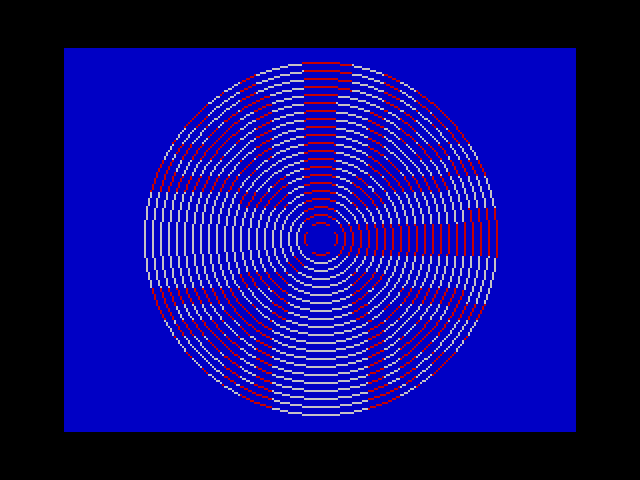
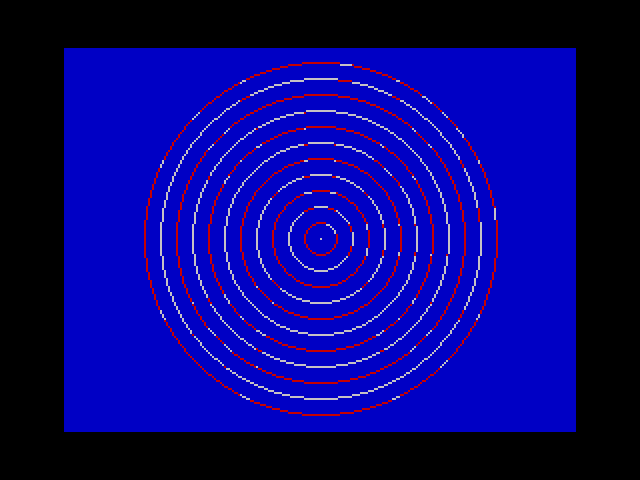
OpticOS 128: 32-column editor in SCREEN 1, and demo updates
The editor, cursor and INPUT now use 32 columns in mode 1 via a
main-ROM w_chk hook (OMODE=32 jumps to x_ed; 64-col and 48K keep
the local path). Locked addresses are unchanged. Net 4 bytes used
from the 95 free after the Stage 1 commit, 91 left; the hook was
paid for by squeezes, plus 1 byte to fix cursor erase (xor a was
clearing the flags from or a, so 8x8 cursors were left behind).

Hi-res circle rings are 8 px apart. The flags demo shows modes
0, 2 and 3 only (mode 1 is the same bitmap as 0). DRAW/BOX at
OMODE 32 matches OMODE 64. Local commit only; do not push.

Changed region(s): [[0.2188, 0.125, 0.7812, 0.875], [0.6875, 0.7188, 0.7188, 0.75], [0.3125, 0.2188, 0.3438, 0.25]]

diff --git a/tools/rig/test_screen_gfx.py b/tools/rig/test_screen_gfx.py
@@ -856,6 +856,46 @@ def t_circle_hires():
     check('CIRCLE hi INVERSE clears the centre pixel',
           not pix_hi(s, 128, ytotop(0, 96)), 'pixel still set')
 
+def t_mode1_draw_box_matches_mode0():
+    """SCREEN 1 uses the same 256x192 path as SCREEN 0 (SMODE=0).
+    OMODE (32 vs 64) must not change DRAW or BOX pixels."""
+    OMODE = 0x5C92
+    # Main-ROM PLOT/DRAW (the SCREEN 0/1 path when SMODE=0).  Call the
+    # graphics routines directly: BASIC line entry uses the editor hook,
+    # which on a 48K rig would take the OMODE=32 path into a no-op xgo.
+    from p3lib import Basic, SYM as MS
+    b = Basic()
+    s0 = b.s
+    iy = MS['ERR_NR']
+    def draw_main(om):
+        s0.poke(OMODE, om)
+        s0.load(0x4000, bytes(0x1B00))
+        # plot: BC = (B=y, C=x); ln_to: line from COORDS to (C, B)
+        s0.call(MS['plot'], BC=(10 << 8) | 10, IY=iy, IFF1=0, IFF2=0)
+        s0.call(MS['ln_to'], BC=(50 << 8) | 90, IY=iy, IFF1=0, IFF2=0)
+        s0.call(MS['plot'], BC=(20 << 8) | 200, IY=iy, IFF1=0, IFF2=0)
+        s0.call(MS['ln_to'], BC=(80 << 8) | 240, IY=iy, IFF1=0, IFF2=0)
+        return bytes(s0.block(0x4000, 0x1B00))
+    bm64, bm32 = draw_main(64), draw_main(32)
+    check('main-ROM DRAW bitmap identical at OMODE 32 and 64',
+          bm64 == bm32, '' if bm64 == bm32 else 'bytes differ')
+    check('main-ROM DRAW actually painted pixels',
+          any(bm64), 'bitmap was blank')
+    # Extension BOX and lineto in hi-res (SMODE=0 -> plot_hi)
+    s = machine()
+    def snap_ext(om):
+        setup(s, 0, 7)
+        s.poke(OMODE, om)
+        s.load(0x4000, bytes(0x1B00))
+        zbox(s, 20, 30, 80, 40, 7)
+        zline(s, 0, 0, 100, 80, 7)
+        return bytes(s.block(0x4000, 0x1B00))
+    ex64, ex32 = snap_ext(64), snap_ext(32)
+    check('hi-res BOX/DRAW bitmap identical at OMODE 32 and 64',
+          ex64 == ex32, '' if ex64 == ex32 else 'bytes differ')
+    check('hi-res BOX/DRAW actually painted pixels',
+          any(ex64), 'bitmap was blank')
+
 def main():
     t_draw_octants()
     t_draw_clip()
@@ -864,6 +904,7 @@ def main():
     t_circle()
     t_circle_hires()
     t_flag_reference()
+    t_mode1_draw_box_matches_mode0()
     nfail = sum(1 for _, ok, _ in results if not ok)
     print('\n%d tests, %d failed' % (len(results), nfail))
     return 0 if nfail == 0 else 1

diff --git a/docs/opticbasic128-screen.md b/docs/opticbasic128-screen.md
@@ -58,10 +58,11 @@ There's no conflict with OpticOS 128 or SAY: neither uses bank 7. The renderer a
 
 `examples/src/flags128.bas` (tape `examples/flags128.tap`/`.tzx`): the Union Flag from `flag.bas`.
 
-- **SCREEN 0 and SCREEN 1:** drawn by the original listing (full-resolution PLOT). SCREEN 1 captions use the 32-column font.
+- **SCREEN 0:** drawn by the original listing (full-resolution PLOT).
 - **SCREEN 2 and SCREEN 3:** the same flag with `BOX` for the field and the cross, and `DRAW` of one horizontal run per arm per row for the saltires (`dband` in the listing). The red saltire is offset inside the white band with the same counterchange as SCREEN 0 (red to the left in the top half, to the right in the bottom half, white on both sides of the red). SCREEN 2 keeps the earlier ~6-chunky-pixel vertical band thickness (14 pixels horizontally, 5 of them red) with edges aligned to the 2×2 attribute grid; SCREEN 3 uses an ~3–4 cell vertical band (8 cells horizontally, 2 of them red).
+- **SCREEN 1** is the same 256×192 bitmap as SCREEN 0, so the demo does not show it separately.
 
-Screenshots are in `docs/screenmodes/` (`flags_all_modes.png`, `flag_screen0.png` / `flag_screen1.png` / `flag_screen2.png`).
+Screenshots are in `docs/screenmodes/` (`flags_all_modes.png`, `flag_screen0.png` / `flag_screen2.png` / `flag_screen3.png`).
 
 ## Running it
 
@@ -127,6 +128,6 @@ The screenshots in `docs/screenmodes/` were retaken from a real Fuse 128K run af
 
 `CIRCLE x,y,r[,c]` is a midpoint circle in the extension ROM. In SCREEN 2/3 it is written into the framebuffer with `plot_cl`, dirty cells marked, and one `auto_show` render. In SCREEN 0 and 1 the same midpoint walk plots the 256×192 bitmap on screen 5: with no `c`, the pixel follows OVER/INVERSE and the cell takes ATTR_T/MASK_T (as PLOT); with `c` 0–15 the ink pixel is set (unless INVERSE) and INK+BRIGHT are taken from `c`, leaving PAPER. 48K still reports "No such PROC or FN".
 
-The demo `examples/src/circles128.bas` (tape `examples/circles128.tap` / `.tzx`) draws a concentric red/white target on a blue field in all four modes, with rings four pixels (or four chunky pixels / cells) thick to cut clash. Screenshots are in `docs/screenmodes/` (`circles_all_modes.png`, `circle_screen0.png`–`circle_screen3.png`, `circle_timings.png`).
+The demo `examples/src/circles128.bas` (tape `examples/circles128.tap` / `.tzx`) draws a concentric red/white target on a blue field in all four modes. SCREEN 0 and 1 space the rings eight pixels apart so the attribute clash looks tidier; SCREEN 2 and 3 stay four chunky pixels / cells apart. Screenshots are in `docs/screenmodes/` (`circles_all_modes.png`, `circle_screen0.png`–`circle_screen3.png`, `circle_timings.png`).
 
 A map of both 16K ROMs, generated from the built symbol files and `tools/check_layout.py` ranges, is `docs/screenmodes/rom_maps.png` (`tools/rom_map.py`).
